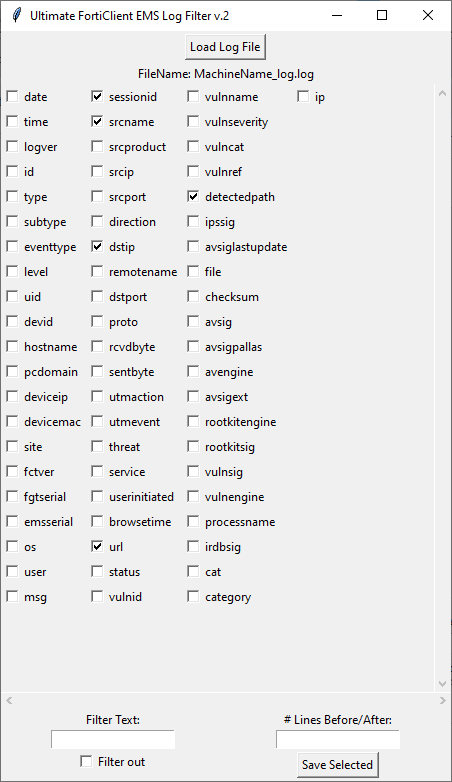
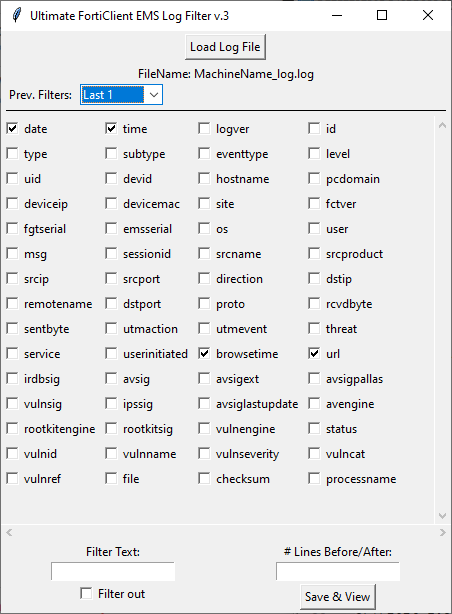
added last 3 filters selected

diff --git a/ultimateFortinetEMSLogFilter.py b/ultimateFortinetEMSLogFilter.py
@@ -1,24 +1,26 @@
 import os
 import re
+import json
 import tkinter as tk
-from tkinter import filedialog, messagebox
+from tkinter import filedialog, messagebox, ttk
 from collections import OrderedDict
 from datetime import datetime
 import subprocess
+from copy import deepcopy
 
 #
 # -----------------------------------------------------------------------
 # Script Name: Ultimate FortiClient Log Filter Tool
 # Description: Review logs quicker for the exact things you want to see.
-#              FortiClient logs a lot of inforamtion and sometimes you 
-#              only need to part of it.
+#              FortiClient logs a lot of information and sometimes you 
+#              only need part of it.
 #              Quickly filter FortiClient logs based on specific criteria 
 #              like source name (srcname), destination IP(dstip), url, 
 #              and other criteria via checkboxes.
 # Author: cr0m
 # Created Date: April 22, 2024
-# Updated Date: May 8th, 2024
-# Version: 0.2
+# Updated Date: May 23rd, 2024
+# Version: 0.3
 # Usage: Start the tool, load a log file, configure filters, and save the output.
 # -----------------------------------------------------------------------
 #
@@ -30,6 +32,7 @@ import subprocess
 # 5. Save filtered results to a new file with a timestamp in the filename.
 # 6. Automatically opens the saved file in Notepad++ for quick viewing and further editing. 
 # 7. Memory feature - Saves filter checkboxes to config.txt
+# 8. Dropdown to select from the last three checkbox states
 #
 # Usage:
 # - Start the tool and use the "Load Log File" button to load the desired log file.
@@ -38,6 +41,26 @@ import subprocess
 # - Specify the number of lines before and after matching entries to include for additional context.
 # - Click "Save Selected" to save the filtered entries to a new file and automatically open this file in Notepad++.
 # - This will also save the current checkboxes selected/not selected to config.txt for favorite keys
+
+# Initialize a variable to keep track of the last saved state
+last_saved_state = None
+
+# Function to compare current checkbox state with the last saved state
+def has_state_changed(current_state, last_state):
+    if last_state is None:
+        return True
+    return current_state != last_state
+
+# Load the last three checkbox states from a file
+def load_checkbox_states():
+    try:
+        with open('checkbox_states.txt', 'r') as f:
+            return json.load(f)  # Load the JSON array from file
+    except FileNotFoundError:
+        return []
+    except json.JSONDecodeError as e:
+        print(f"Error decoding JSON: {e}")
+        return []
 
 # Function to parse the log file and extract key-value pairs
 def parse_log_file(filepath):
@@ -87,8 +110,6 @@ def save_results(selected_keys, all_data, original_file, filter_text, exclude_fi
                     selected_data = prefix + ' ' + ' '.join(f"{k}={v}" for k, v in line.items() if k in selected_keys)
                     file.write(selected_data + '\n')  # Write the formatted data to the file
 
-    messagebox.showinfo("Save Successful", f"Data saved to {new_filename}")  # Show a message indicating success
-
     # Open the file in Notepad++
     try:
         notepad_plus_path = "C:\\Program Files\\Notepad++\\notepad++.exe"
@@ -96,30 +117,67 @@ def save_results(selected_keys, all_data, original_file, filter_text, exclude_fi
     except Exception as e:
         messagebox.showerror("Error", f"Failed to open Notepad++: {e}")  # Show an error if Notepad++ cannot be opened
 
-# Save checkbox states to a file
+# Save the current checkbox state and keep only the last three states
 def save_checkbox_states():
-    """ Save the current states of the checkboxes to a config file. """
-    with open("config.txt", "w") as f:
-        for key, var in checkboxes.items():
-            f.write(f"{key}={var.get()}\n")  # Write each checkbox state as 'key=value'
+    global last_saved_state
+    state = {key: var.get() for key, var in checkboxes.items()}
+    if not has_state_changed(state, last_saved_state):
+        print("No changes detected. Skipping save.")
+        return
+    states = load_checkbox_states()
+    states.append(state)
+    states = states[-3:]  # Keep only the last three states
+    with open('checkbox_states.txt', 'w') as f:
+        json.dump(states, f, indent=4)  # Save states as a JSON array
+    last_saved_state = deepcopy(state)
 
-# Load checkbox states from a file
+# Function to update checkboxes based on the selected state
+def update_checkboxes(event):
+    """ Update checkboxes based on the selected state. """
+    selection = combobox.current()
+    states = load_checkbox_states()
+    if states and selection < len(states):
+        state = states[selection]
+        if isinstance(state, dict):
+            for key, var in checkboxes.items():
+                var.set(state.get(key, False))
+
+def bind_combobox():
+    combobox.bind("<<ComboboxSelected>>", update_checkboxes)
+
+# Load the last three checkbox states from a file
 def load_checkbox_states():
-    """ Load the checkbox states from a config file if it exists. """
-    if os.path.exists("config.txt"):
-        with open("config.txt", "r") as f:
-            return dict(line.strip().split('=') for line in f if line.strip())  # Parse the file into a dictionary
-    return {}
+    try:
+        with open('checkbox_states.txt', 'r') as f:
+            return json.load(f)  # Load the JSON array from file
+    except FileNotFoundError:
+        return []
+    except json.JSONDecodeError as e:
+        print(f"Error decoding JSON: {e}")
+        return []
+
+# Update the dropdown with the last three checkbox states
+def update_combobox():
+    states = load_checkbox_states()
+    names = ["Last " + str(i+1) for i in range(len(states))]
+    names.reverse()  # Reverse the list so the most recent is first
+    combobox['values'] = names
+    if states:
+        combobox.set("Last 1")  # Set the default value to "Last 1"
 
 # Load file and update checkboxes based on keys found in the log file
 def load_file():
     """ Load a log file and update the GUI with available keys. """
-    global all_data, filepath
+    global all_data, filepath, last_saved_state
     filepath = filedialog.askopenfilename()  # Open a file dialog to select a log file
     if not filepath:
         return  # Return if no file was selected
     all_data, keys_order = parse_log_file(filepath)  # Parse the selected file
     saved_states = load_checkbox_states()  # Load previously saved checkbox states
+    if saved_states:
+        last_saved_state = deepcopy(saved_states[-1])
+    else:
+        last_saved_state = None
     filename_label.config(text="FileName: " + os.path.basename(filepath))  # Update the filename label
 
     for widget in scrollable_frame.winfo_children():
@@ -128,15 +186,23 @@ def load_file():
     column = 0
     row = 0
     for key in keys_order.keys():
-        checked = saved_states.get(key, "False") == "True"  # Determine if the checkbox should be checked
+        checked = False
+        if saved_states:
+            state = saved_states[-1]
+            if isinstance(state, dict):
+                checked = state.get(key, False)
+
         var = tk.BooleanVar(value=checked)
         cb = tk.Checkbutton(scrollable_frame, text=key, variable=var)
         cb.grid(row=row, column=column, sticky='w')  # Arrange checkboxes in a grid layout
         checkboxes[key] = var  # Add checkbox variable to the dictionary
-        row += 1
-        if row > 20:
-            row = 0
-            column += 1  # Move to the next column after 20 rows
+
+        # Update row and column for next checkbox
+        column += 1
+        if column > 3:  # Change this number to set how many checkboxes per row
+            column = 0
+            row += 1
+
 
 # Save filtered results and checkbox states
 def save_filtered_results():
@@ -147,19 +213,40 @@ def save_filtered_results():
     context_lines = int(lines_context_entry.get() or 0)  # Default to 0 if empty
     save_results(selected_keys, all_data, filepath, filter_text, exclude_filter, context_lines)  # Save results
     save_checkbox_states()  # Save checkbox states
+    update_combobox()  # Update combobox after saving states
 
 # GUI Setup
 root = tk.Tk()
-root.title("Ultimate FortiClient EMS Log Filter v.2")
-root.geometry("450x750")
+root.title("Ultimate FortiClient EMS Log Filter v.3")
+root.geometry("450x650")
+
+# Frame to contain the Load button and combobox
+top_frame = tk.Frame(root)
+top_frame.pack(pady=3)
 
 # Button to load the log file
-load_button = tk.Button(root, text="Load Log File", command=load_file)
-load_button.pack(pady=3)
+load_button = tk.Button(top_frame, text="Load Log File", command=load_file)
+load_button.grid(row=0, column=0, padx=5)
 
 # Label to display the loaded filename
 filename_label = tk.Label(root, text="No file loaded")
 filename_label.pack(pady=0)
+
+# Frame for labels and combobox
+label_frame = tk.Frame(root)
+label_frame.pack(anchor='w')
+
+# Label for "Memory"
+memory_label = tk.Label(label_frame, text="Prev. Filters:")
+memory_label.pack(side='left', padx=5)
+
+# Create a dropdown for the last three checkbox states
+combobox = ttk.Combobox(label_frame, width=10, state='readonly')
+combobox.pack(side='left')
+
+# Horizontal line
+line = tk.Frame(root, height=1, bg='black')
+line.pack(fill='x', padx=5, pady=5)
 
 # Frame to contain the scrollable canvas and scrollbars
 frame = tk.Frame(root)
@@ -199,8 +286,14 @@ lines_context_entry = tk.Entry(root)
 lines_context_entry.pack(pady=0)
 
 # Button to save the selected results
-save_button = tk.Button(root, text="Save Selected", command=save_filtered_results)
+save_button = tk.Button(root, text="Save & View", command=save_filtered_results)
 save_button.pack(pady=3)
+
+# Bind the function to the combobox
+bind_combobox()
+
+# Update the dropdown when the GUI starts
+update_combobox()
 
 # Dictionary to store the checkbox variables
 checkboxes = {}

diff --git a/README.md b/README.md
@@ -10,6 +10,7 @@ Quickly filter FortiClient logs based on specific criteria like source name (src
  5. Save filtered results to a new file with a timestamp in the filename.
  6. Automatically opens the saved file in Notepad++ for quick viewing and further editing. 
  7. Memory feature - Saves filter checkboxes to config.txt
+ 8. Dropdown to select from the last three checkbox states
 
 Usage:
  - Start the tool and use the "Load Log File" button to load the desired log file.
